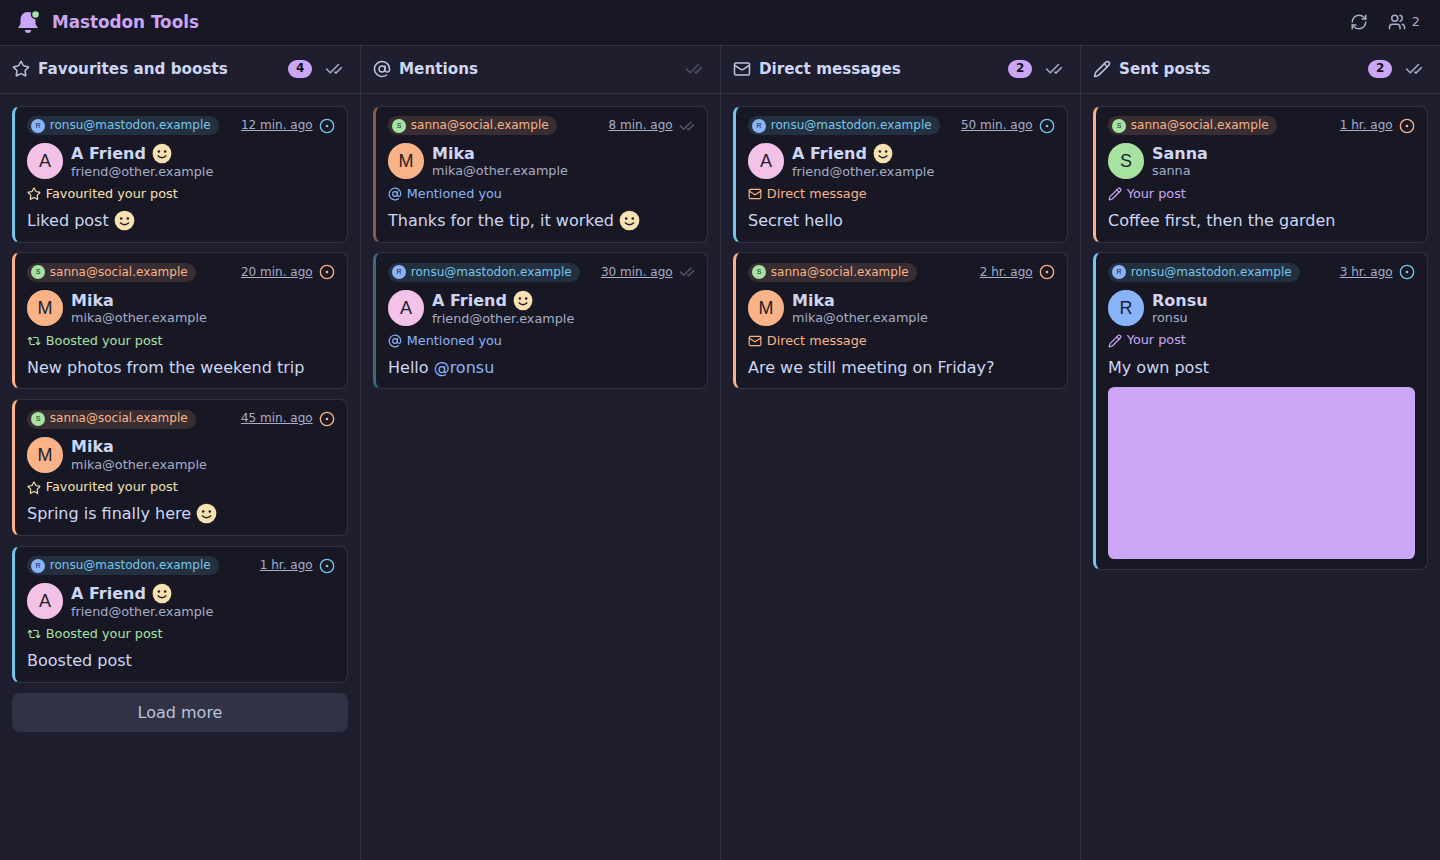
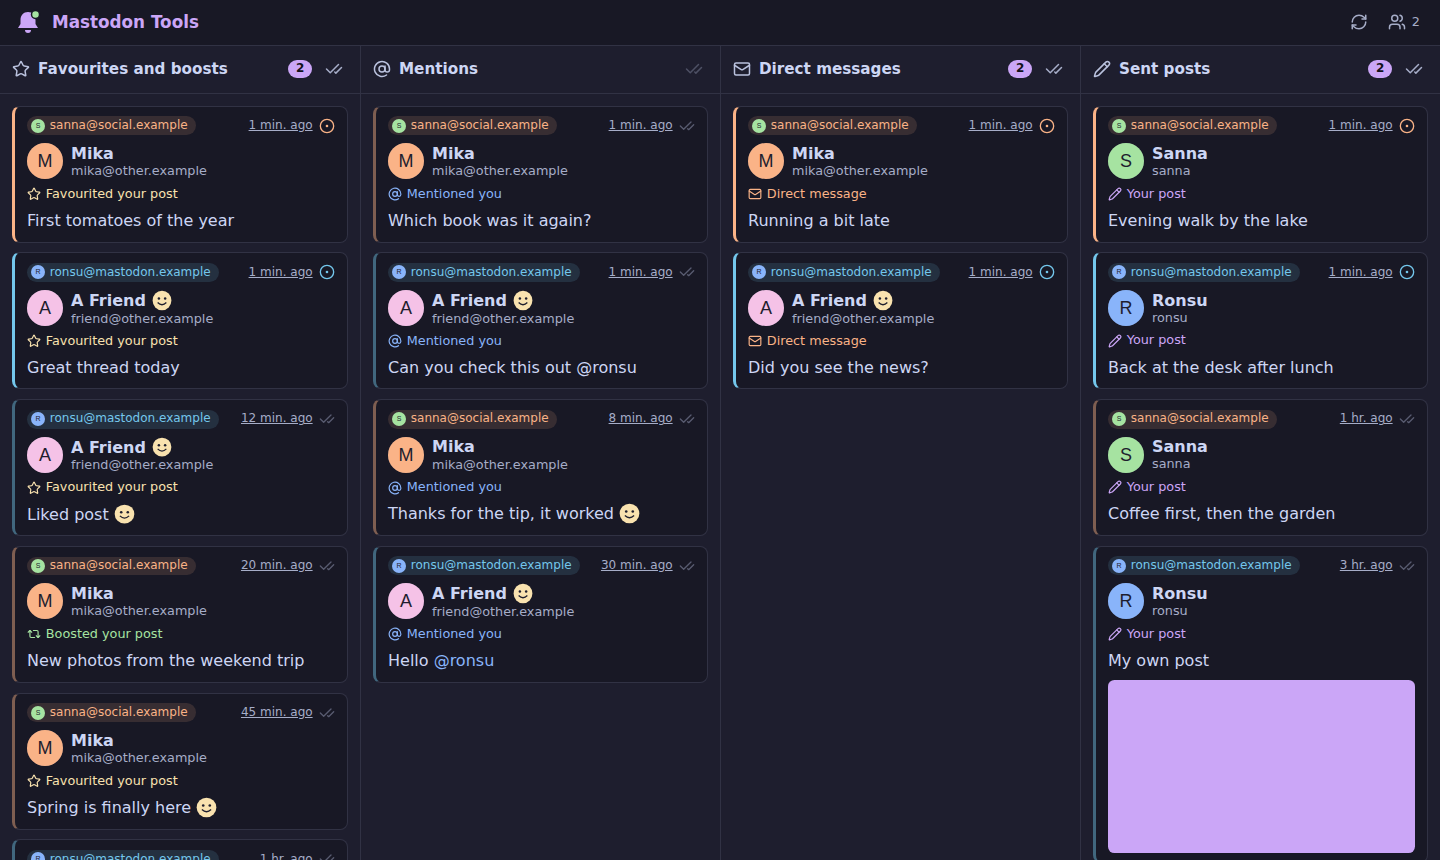
Update the screenshots to show unread and read items

diff --git a/e2e/mock.ts b/e2e/mock.ts
@@ -12,6 +12,8 @@ export interface Profile {
   mention: string;
   message: string;
   post: string;
+  /** The newest item of each column, which appears when the server is released */
+  news: { favourite: string; mention: string; message: string; post: string };
   /** Item ages, so that the accounts' items mix in the columns and times look recent */
   minutesAgo: { favourite: number; boost: number; mention: number; message: number; post: number };
   /** Gives the favourites a second, older page and the own post an image. Used by the tests, not the screenshots. */
@@ -28,6 +30,7 @@ export const defaultProfile: Profile = {
   mention: 'Hello <a href="javascript:alert(1)">@ronsu</a>',
   message: 'Secret hello',
   post: 'My own post',
+  news: { favourite: 'Great thread today', mention: 'Can you check this out @ronsu', message: 'Did you see the news?', post: 'Back at the desk after lunch' },
   minutesAgo: { favourite: 12, boost: 95, mention: 30, message: 50, post: 200 },
   extras: true,
 };
@@ -42,6 +45,7 @@ export const secondProfile: Profile = {
   mention: 'Thanks for the tip, it worked :blobaww:',
   message: 'Are we still meeting on Friday?',
   post: 'Coffee first, then the garden',
+  news: { favourite: 'First tomatoes of the year', mention: 'Which book was it again?', message: 'Running a bit late', post: 'Evening walk by the lake' },
   minutesAgo: { favourite: 45, boost: 20, mention: 8, message: 130, post: 70 },
   extras: false,
 };
@@ -125,10 +129,10 @@ export async function mockMastodon(page: Page, profile: Profile = defaultProfile
         return json(me);
       case '/api/v1/notifications': {
         if (url.searchParams.getAll('types[]').includes('mention')) {
-          return json([...fresh([notification('21', 'mention', 'Fresh mention', 1)]), notification('20', 'mention', profile.mention, age.mention)]);
+          return json([...fresh([notification('21', 'mention', profile.news.mention, 1)]), notification('20', 'mention', profile.mention, age.mention)]);
         }
         const items = [
-          ...fresh([notification('13', 'favourite', 'Fresh favourite', 1)]),
+          ...fresh([notification('13', 'favourite', profile.news.favourite, 1)]),
           notification('12', 'favourite', profile.favourite, age.favourite),
           notification('11', 'reblog', profile.boost, age.boost),
         ];
@@ -145,12 +149,12 @@ export async function mockMastodon(page: Page, profile: Profile = defaultProfile
             id: '5',
             unread: true,
             accounts: [other],
-            last_status: released ? status('31', 'Fresh message', 1, other) : status('30', profile.message, age.message, other),
+            last_status: released ? status('31', profile.news.message, 1, other) : status('30', profile.message, age.message, other),
           },
         ]);
       case `/api/v1/accounts/${me.id}/statuses`: {
         const own = status('40', profile.post, age.post);
-        const newest = fresh([status('41', 'Fresh post', 1)]);
+        const newest = fresh([status('41', profile.news.post, 1)]);
         if (!profile.extras) return json([...newest, own]);
         const image = { id: 'm1', type: 'image', url: `${instance}/preview.svg`, preview_url: `${instance}/preview.svg`, description: 'A purple square' };
         return json([...newest, { ...own, media_attachments: [image] }]);

diff --git a/e2e/app.spec.ts b/e2e/app.spec.ts
@@ -1,5 +1,5 @@
 import { expect, test } from '@playwright/test';
-import { mockMastodon, type MockServer } from './mock';
+import { defaultProfile, mockMastodon, type MockServer } from './mock';
 
 let server: MockServer;
 
@@ -15,7 +15,7 @@ async function openAccounts(page: import('@playwright/test').Page) {
 async function refreshWithNews(page: import('@playwright/test').Page) {
   server.release();
   await page.getByRole('button', { name: /^refresh$|^päivitä$/i }).click();
-  await expect(page.getByText('Fresh favourite')).toBeVisible();
+  await expect(page.getByText(defaultProfile.news.favourite)).toBeVisible();
 }
 
 async function connect(page: import('@playwright/test').Page) {

diff --git a/e2e/screenshots.spec.ts b/e2e/screenshots.spec.ts
@@ -21,7 +21,7 @@ async function connectBoth(page: Page) {
   // Something new happens after the accounts were added, so there is something unread to show
   for (const server of servers) server.release();
   await page.getByRole('button', { name: /^refresh$/i }).click();
-  await expect(page.getByText('Fresh favourite').first()).toBeVisible();
+  await expect(page.getByText(defaultProfile.news.favourite)).toBeVisible();
 }
 
 test('desktop screenshot', async ({ page }) => {
